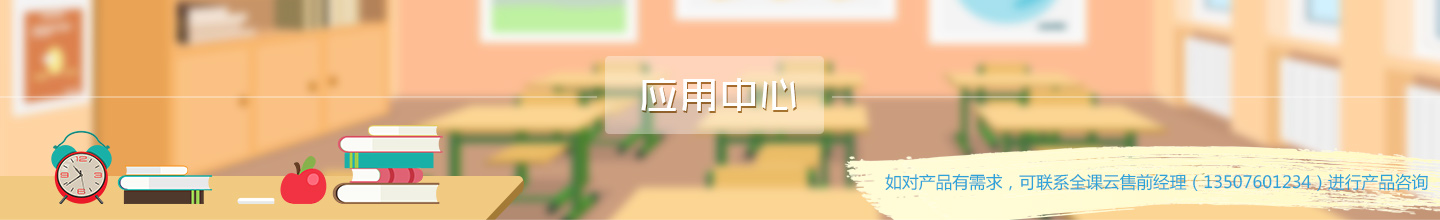
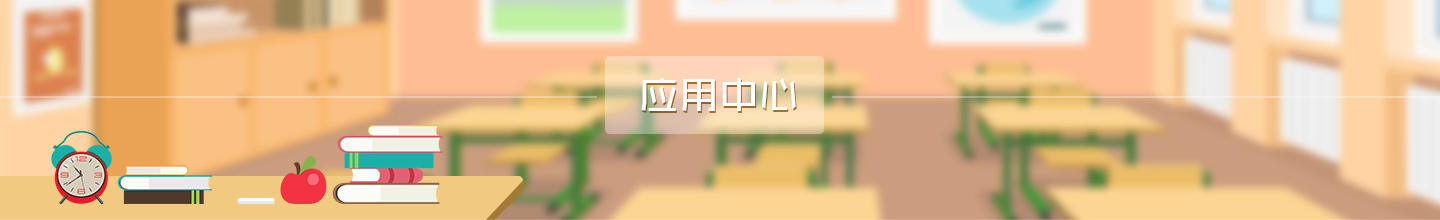
banner可编辑文字、设置弹出按钮、综合素质及课程版块调整等

Changed region(s): [[0.5625, 0.6545, 1.0, 1.0]]

diff --git a/html-admin/04index_app.html b/html-admin/04index_app.html
@@ -26,7 +26,17 @@
     </div>
     <div class="bg-fff app-app1 row ma0 text-center">
       <div class="col-sm-2 po_r pa0">
-        <div class="po_ab_r"><a href="#" title="设置" class="iconfont icon-shezhi iblock mt10 mr10 pa5"></a></div>
+        <div class="po_ab_r">
+          <div role="presentation" class="dropdown fr no-udline">
+            <a title="设置" class="dropdown-toggle navli-downa co_666" data-toggle="dropdown" href="#" role="button" aria-haspopup="true" aria-expanded="false">
+            <span class="iconfont icon-shezhi iblock mt10 mr10 pa5"></span>
+            </a>
+            <ul class="dropdown-menu">
+              <li><a href="#">设置常用</a></li>
+              <li><a href="#">取消常用</a></li>
+            </ul>
+          </div>
+        </div>
         <a href="#" class="app-one">
         <div class="po_ab mark-topleft"><div class="po_ab zindex2 co_ff ma5 fz_13">常用</div><div class="triangle-topleft po_r"></div></div>
         <div class="mb10">
@@ -39,7 +49,17 @@
         </a>
       </div>
       <div class="col-sm-2 po_r pa0">
-        <div class="po_ab_r"><a href="#" title="设置" class="iconfont icon-shezhi iblock mt10 mr10 pa5"></a></div>
+        <div class="po_ab_r">
+          <div role="presentation" class="dropdown fr no-udline">
+            <a title="设置" class="dropdown-toggle navli-downa co_666" data-toggle="dropdown" href="#" role="button" aria-haspopup="true" aria-expanded="false">
+            <span class="iconfont icon-shezhi iblock mt10 mr10 pa5"></span>
+            </a>
+            <ul class="dropdown-menu">
+              <li><a href="#">设置常用</a></li>
+              <li><a href="#">取消常用</a></li>
+            </ul>
+          </div>
+        </div>
         <a href="#" class="app-one">
         <div class="po_ab mark-topleft"><div class="po_ab zindex2 co_ff ma5 fz_13">常用</div><div class="triangle-topleft po_r"></div></div>
         <div class="mb10">
@@ -52,7 +72,17 @@
         </a>
       </div>
       <div class="col-sm-2 po_r pa0">
-        <div class="po_ab_r"><a href="#" title="设置" class="iconfont icon-shezhi iblock mt10 mr10 pa5"></a></div>
+        <div class="po_ab_r">
+          <div role="presentation" class="dropdown fr no-udline">
+            <a title="设置" class="dropdown-toggle navli-downa co_666" data-toggle="dropdown" href="#" role="button" aria-haspopup="true" aria-expanded="false">
+            <span class="iconfont icon-shezhi iblock mt10 mr10 pa5"></span>
+            </a>
+            <ul class="dropdown-menu">
+              <li><a href="#">设置常用</a></li>
+              <li><a href="#">取消常用</a></li>
+            </ul>
+          </div>
+        </div>
         <a href="#" class="app-one">
         <div class="mb10">
           <svg class="icon fz_64" aria-hidden="true">
@@ -64,7 +94,17 @@
         </a>
       </div>
       <div class="col-sm-2 po_r pa0">
-        <div class="po_ab_r"><a href="#" title="设置" class="iconfont icon-shezhi iblock mt10 mr10 pa5"></a></div>
+        <div class="po_ab_r">
+          <div role="presentation" class="dropdown fr no-udline">
+            <a title="设置" class="dropdown-toggle navli-downa co_666" data-toggle="dropdown" href="#" role="button" aria-haspopup="true" aria-expanded="false">
+            <span class="iconfont icon-shezhi iblock mt10 mr10 pa5"></span>
+            </a>
+            <ul class="dropdown-menu">
+              <li><a href="#">设置常用</a></li>
+              <li><a href="#">取消常用</a></li>
+            </ul>
+          </div>
+        </div>
         <a href="#" class="app-one">
         <div class="mb10">
           <svg class="icon fz_64" aria-hidden="true">
@@ -77,7 +117,17 @@
       </div>
       
       <div class="col-sm-2 po_r pa0">
-        <div class="po_ab_r"><a href="#" title="设置" class="iconfont icon-shezhi iblock mt10 mr10 pa5"></a></div>
+        <div class="po_ab_r">
+          <div role="presentation" class="dropdown fr no-udline">
+            <a title="设置" class="dropdown-toggle navli-downa co_666" data-toggle="dropdown" href="#" role="button" aria-haspopup="true" aria-expanded="false">
+            <span class="iconfont icon-shezhi iblock mt10 mr10 pa5"></span>
+            </a>
+            <ul class="dropdown-menu">
+              <li><a href="#">设置常用</a></li>
+              <li><a href="#">取消常用</a></li>
+            </ul>
+          </div>
+        </div>
         <a href="#" class="app-one">
         <div class="mb10">
           <svg class="icon fz_64" aria-hidden="true">
@@ -89,7 +139,17 @@
         </a>
       </div>
       <div class="col-sm-2 po_r pa0">
-        <div class="po_ab_r"><a href="#" title="设置" class="iconfont icon-shezhi iblock mt10 mr10 pa5"></a></div>
+        <div class="po_ab_r">
+          <div role="presentation" class="dropdown fr no-udline">
+            <a title="设置" class="dropdown-toggle navli-downa co_666" data-toggle="dropdown" href="#" role="button" aria-haspopup="true" aria-expanded="false">
+            <span class="iconfont icon-shezhi iblock mt10 mr10 pa5"></span>
+            </a>
+            <ul class="dropdown-menu">
+              <li><a href="#">设置常用</a></li>
+              <li><a href="#">取消常用</a></li>
+            </ul>
+          </div>
+        </div>
         <a href="#" class="app-one">
         <div class="po_ab mark-topleft"><div class="po_ab zindex2 co_ff ma5 fz_13">常用</div><div class="triangle-topleft po_r"></div></div>
         <div class="mb10">
@@ -102,7 +162,17 @@
         </a>
       </div>
       <div class="col-sm-2 po_r pa0">
-        <div class="po_ab_r"><a href="#" title="设置" class="iconfont icon-shezhi iblock mt10 mr10 pa5"></a></div>
+        <div class="po_ab_r">
+          <div role="presentation" class="dropdown fr no-udline">
+            <a title="设置" class="dropdown-toggle navli-downa co_666" data-toggle="dropdown" href="#" role="button" aria-haspopup="true" aria-expanded="false">
+            <span class="iconfont icon-shezhi iblock mt10 mr10 pa5"></span>
+            </a>
+            <ul class="dropdown-menu">
+              <li><a href="#">设置常用</a></li>
+              <li><a href="#">取消常用</a></li>
+            </ul>
+          </div>
+        </div>
         <a href="#" class="app-one">
         <div class="mb10">
           <svg class="icon fz_64" aria-hidden="true">
@@ -114,7 +184,17 @@
         </a>
       </div>
       <div class="col-sm-2 po_r pa0">
-        <div class="po_ab_r"><a href="#" title="设置" class="iconfont icon-shezhi iblock mt10 mr10 pa5"></a></div>
+        <div class="po_ab_r">
+          <div role="presentation" class="dropdown fr no-udline">
+            <a title="设置" class="dropdown-toggle navli-downa co_666" data-toggle="dropdown" href="#" role="button" aria-haspopup="true" aria-expanded="false">
+            <span class="iconfont icon-shezhi iblock mt10 mr10 pa5"></span>
+            </a>
+            <ul class="dropdown-menu">
+              <li><a href="#">设置常用</a></li>
+              <li><a href="#">取消常用</a></li>
+            </ul>
+          </div>
+        </div>
         <a href="#" class="app-one">
         <div class="mb10">
           <img src="../images/u1447.png" class="img-64">
@@ -126,7 +206,8 @@
 
     </div>
   </div>
-  <div class="mb15">
+  <div class="mb15 po_r">
+    <div class="po_ab_r app-txt co_blue">如对产品有需求，可联系全课云售前经理（0760-88323620）进行产品咨询</div>
     <img src="../images/app-ban.jpg" class="app-ban">
   </div>
   <div class="mb15">
@@ -143,8 +224,8 @@
             </svg>
           </div>
           <div class="col-sm-8">
-            <div class="co_33 fz_16 mt10">学业水平</div>
-            <div class="mt10">学生成绩管理应用，移动查询</div>
+            <div class="co_33 fz_16 mt5">学业水平</div>
+            <div class="mt10 line-2">学生成绩数据信息化管理，支持移动查询</div>
           </div>
         </div>
       </div>
@@ -157,8 +238,8 @@
             </svg>
           </div>
           <div class="col-sm-8">
-            <div class="co_33 fz_16 mt10">身心健康</div>
-            <div class="mt10">学生体育测试，健康情况查询</div>
+            <div class="co_33 fz_16 mt5">身心健康</div>
+            <div class="mt10 line-2">学生健康数据信息化管理</div>
           </div>
         </div>
       </div>
@@ -171,8 +252,8 @@
             </svg>
           </div>
           <div class="col-sm-8">
-            <div class="co_33 fz_16 mt10">艺术素养</div>
-            <div class="mt10">学生荣誉信息化管理</div>
+            <div class="co_33 fz_16 mt5">艺术素养</div>
+            <div class="mt10 line-2">学生荣誉数据信息化管理</div>
           </div>
         </div>
       </div>
@@ -185,8 +266,8 @@
             </svg>
           </div>
           <div class="col-sm-8">
-            <div class="co_33 fz_16 mt10">实践活动</div>
-            <div class="mt10">学校实践活动智能管理应用</div>
+            <div class="co_33 fz_16 mt5">实践活动</div>
+            <div class="mt10 line-2">学生活动数据信息化管理</div>
           </div>
         </div>
       </div>
@@ -197,8 +278,8 @@
             <img src="../images/u1515.png" class="img-64">
           </div>
           <div class="col-sm-8">
-            <div class="co_33 fz_16 mt10">日常评价</div>
-            <div class="mt10">学生日常行为习惯记录工具</div>
+            <div class="co_33 fz_16 mt5">日常评价</div>
+            <div class="mt10 line-2">学生日常行为习惯记录工具</div>
           </div>
         </div>
       </div>
@@ -219,8 +300,8 @@
             </svg>
           </div>
           <div class="col-sm-8">
-            <div class="co_33 fz_16 mt10">在线选课</div>
-            <div class="mt10">学生成绩管理应用，移动查询</div>
+            <div class="co_33 fz_16 mt5">在线选课</div>
+            <div class="mt10 line-2">支持移动选课，课程统计</div>
           </div>
         </div>
       </div>
@@ -231,8 +312,8 @@
             <img src="../images/u1447.png" class="img-64">
           </div>
           <div class="col-sm-8">
-            <div class="co_33 fz_16 mt10">智能排课</div>
-            <div class="mt10">帮助学校完成多维度排课任务</div>
+            <div class="co_33 fz_16 mt5">智能排课</div>
+            <div class="mt10 line-2">帮助学校完成多维度排课计划</div>
           </div>
         </div>
       </div>
@@ -245,8 +326,8 @@
             </svg>
           </div>
           <div class="col-sm-8">
-            <div class="co_33 fz_16 mt10">课程中心</div>
-            <div class="mt10">学校校本课程库管理</div>
+            <div class="co_33 fz_16 mt5">课程中心</div>
+            <div class="mt10 line-2">协助搭建学校特色校本库</div>
           </div>
         </div>
       </div>
@@ -259,8 +340,8 @@
             </svg>
           </div>
           <div class="col-sm-8">
-            <div class="co_33 fz_16 mt10">课程圈</div>
-            <div class="mt10">课程教学互动应用，含小程序版本</div>
+            <div class="co_33 fz_16 mt5">课程圈</div>
+            <div class="mt10 line-2">课程教学互动应用，含小程序版本</div>
           </div>
         </div>
       </div>
@@ -271,8 +352,8 @@
             <img src="../images/u1571.png" class="img-64">
           </div>
           <div class="col-sm-8">
-            <div class="co_33 fz_16 mt10">课程评价</div>
-            <div class="mt10">针对教学课程的评价</div>
+            <div class="co_33 fz_16 mt5">课程评价</div>
+            <div class="mt10 line-2">针对教学课程的评价</div>
           </div>
         </div>
       </div>
@@ -285,8 +366,8 @@
             </svg>
           </div>
           <div class="col-sm-8">
-            <div class="co_33 fz_16 mt10">AI课表</div>
-            <div class="mt10">智能与手动双考勤</div>
+            <div class="co_33 fz_16 mt5">AI课表</div>
+            <div class="mt10 line-2">智能与手动双考勤</div>
           </div>
         </div>
       </div>
@@ -308,8 +389,8 @@
 			</svg>
           </div>
           <div class="col-sm-8">
-            <div class="co_33 fz_16 mt10">校园OA</div>
-            <div class="mt10">校园移动办公，通知与公告等</div>
+            <div class="co_33 fz_16 mt5">校园OA</div>
+            <div class="mt10 line-2">校园移动办公，通知与公告等</div>
           </div>
         </div>
       </div>
@@ -320,8 +401,8 @@
             <img src="../images/u1607.png" class="img-64">
           </div>
           <div class="col-sm-8">
-            <div class="co_33 fz_16 mt10">班级评价</div>
-            <div class="mt10">协助班级管理、班级评价功能</div>
+            <div class="co_33 fz_16 mt5">班级评价</div>
+            <div class="mt10 line-2">协助班级管理、班级评价功能</div>
           </div>
         </div>
       </div>
@@ -332,8 +413,8 @@
             <img src="../images/u1623.png" class="img-64">
           </div>
           <div class="col-sm-8">
-            <div class="co_33 fz_16 mt10">智阅卷</div>
-            <div class="mt10">智能与手动双考勤</div>
+            <div class="co_33 fz_16 mt5">智阅卷</div>
+            <div class="mt10 line-2">智能与手动双考勤</div>
           </div>
         </div>
       </div>

diff --git a/css/qky_base.css b/css/qky_base.css
@@ -777,8 +777,28 @@ transition: opacity 0.3s linear, right 0.3s ease-out;
 .app-one{ display:block; padding-top:45px; padding-bottom:40px; border-right:1px solid #efefef; border-bottom:1px solid #efefef;}
 .app-app1 .col-sm-2:nth-child(6n) .app-one{ border-right:none;}
 .app-app2 .col-sm-4:nth-child(3n) .app-one{ border-right:none;}
+.app-app1 .col-sm-2 .po_ab_r .dropdown-menu{ width:auto; min-width:inherit;}
+.app-app2 .app-one{ padding-bottom:30px;}
+.app-app2 .app-one .line-2{ height:40px;}
 .app-ban{ width:100%; height:auto;}
-.po_ab_r.app-txt{ bottom:0;top:auto; background:url(../images/app-txt_bg.png) 0 0 no-repeat; width:620px; height:74px; text-align:center; line-height:70px; font-size:16px;}
+.po_ab_r.app-txt{ bottom:0;top:auto; background:url(../images/app-txt_bg.png) 0 0 no-repeat; text-align:center; background-size:100% 100%;}
+@media (min-width: 768px){
+.po_ab_r.app-txt{width:456px; height:46px; line-height:46px; font-size:13px;}
+}
+@media (min-width: 992px){
+.po_ab_r.app-txt{width:476px; height:46px; line-height:46px; font-size:13px;}
+}
+@media (min-width: 1200px){
+.po_ab_r.app-txt{width:500px; height:56px; line-height:56px;}
+}
+@media (min-width: 1440px){
+.po_ab_r.app-txt{width:580px; height:68px; line-height:68px; font-size:15px;}
+}
+@media (min-width: 1600px){
+.po_ab_r.app-txt{width:620px; height:74px; line-height:70px; font-size:16px;}
+}
+
+
 /*角标*/
 .mark-topleft{overflow:hidden;height:66px;width:66px;}
 .triangle-topleft:after { content: "";position: absolute; display: block; border-style: solid; border-color: #a2d9f1 transparent transparent transparent; top:0;left: 0; border-width:50px 60px 0 0; z-index:1;}
